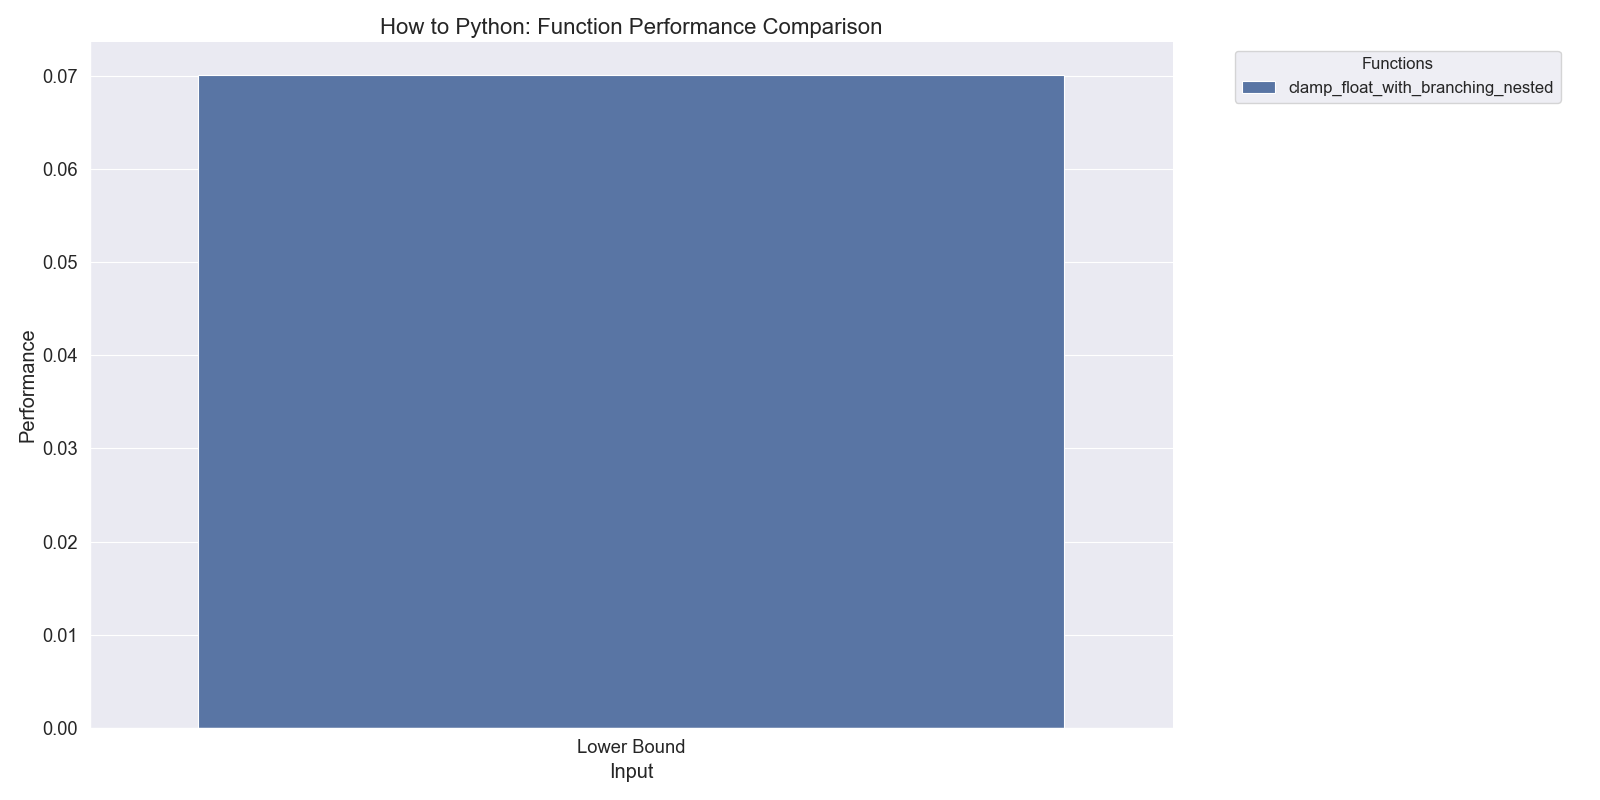
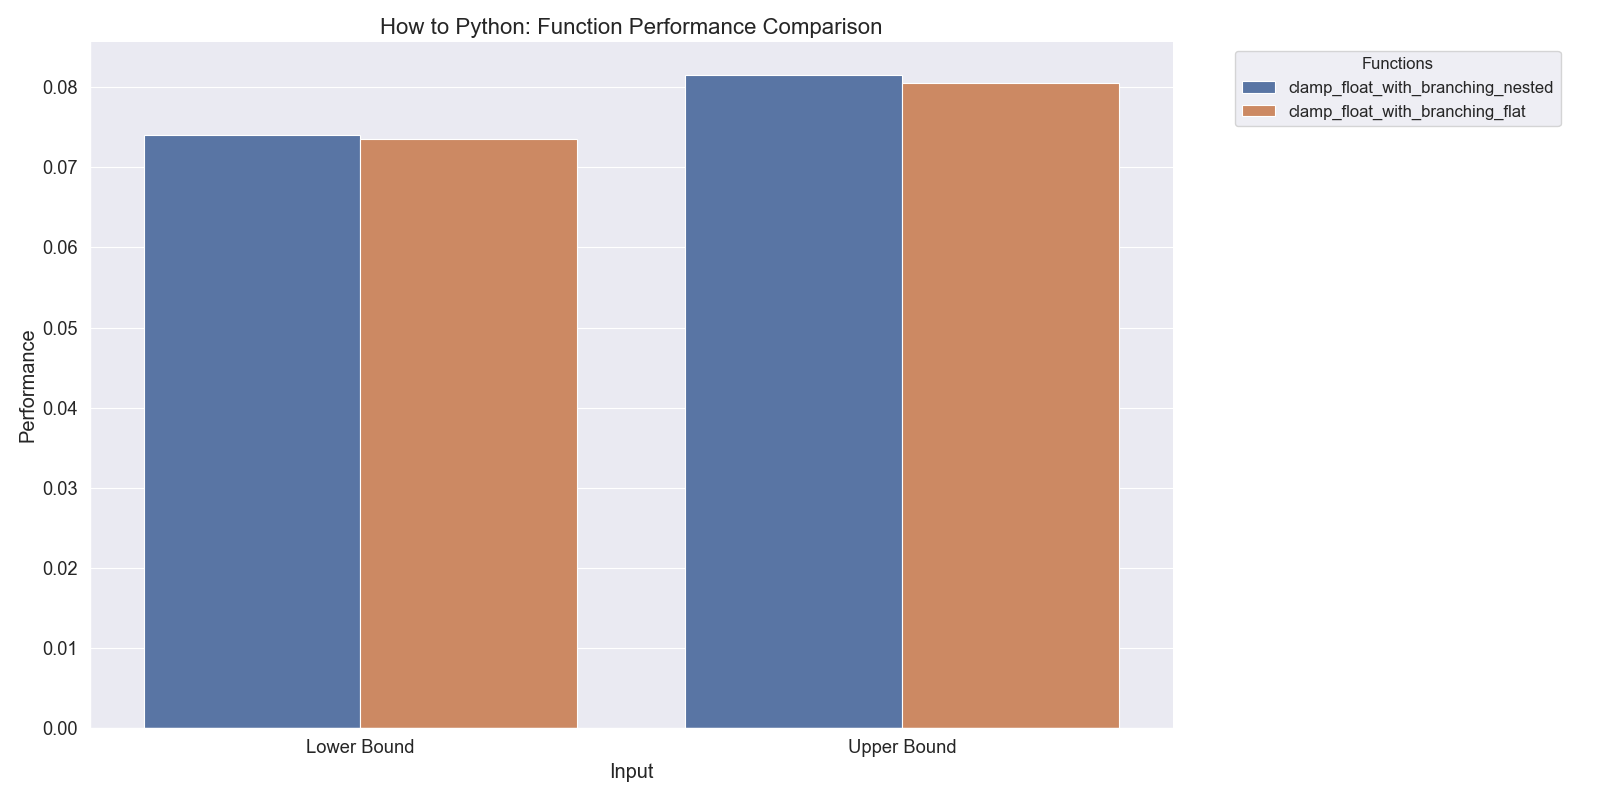
Added another test

diff --git a/testing/how_to_clamp_a_float.py b/testing/how_to_clamp_a_float.py
@@ -1,5 +1,6 @@
 from test_bench import test_bench
 
+
 def clamp_float_with_branching_nested(num: float, minimum: float, maximum: float):
     if num < minimum:
         return minimum
@@ -7,22 +8,27 @@ def clamp_float_with_branching_nested(num: float, minimum: float, maximum: float
         return maximum
     else:
         return num
-    
+
+
+def clamp_float_with_branching_flat(num: float, minimum: float, maximum: float):
+    return minimum if num < minimum else maximum if num > maximum else num
+
+
 def main() -> None:
     """
     Tests the performance of all the functions defined in this file. 
     """
     test_bench(
         [
-            clamp_float_with_branching_nested
+            clamp_float_with_branching_nested,
+            clamp_float_with_branching_flat
         ],
         {
-            "Lower Bound": [-.002, 0, .40]
+            "Lower Bound": [-.002, 0, .40],
+            "Upper Bound": [.402, 0, .40]
         }
     )
 
 
 if __name__ == "__main__":
     main()
-
-    
